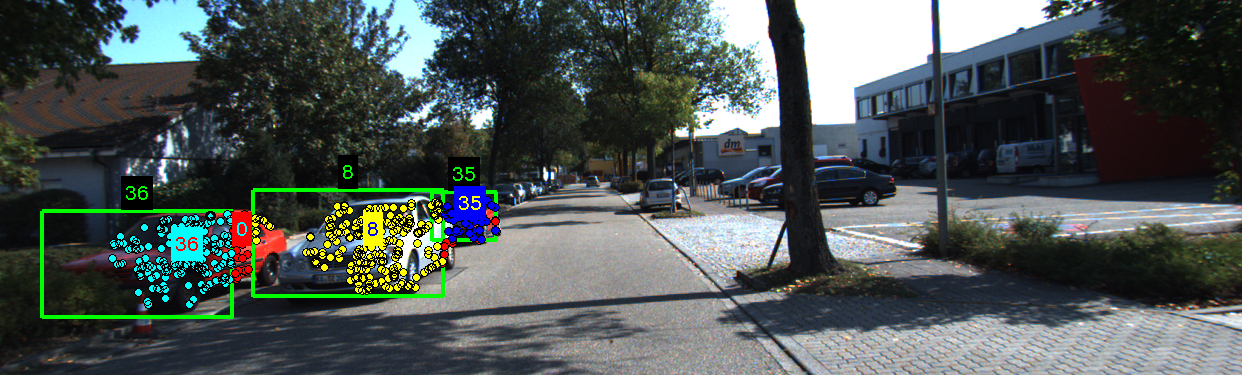
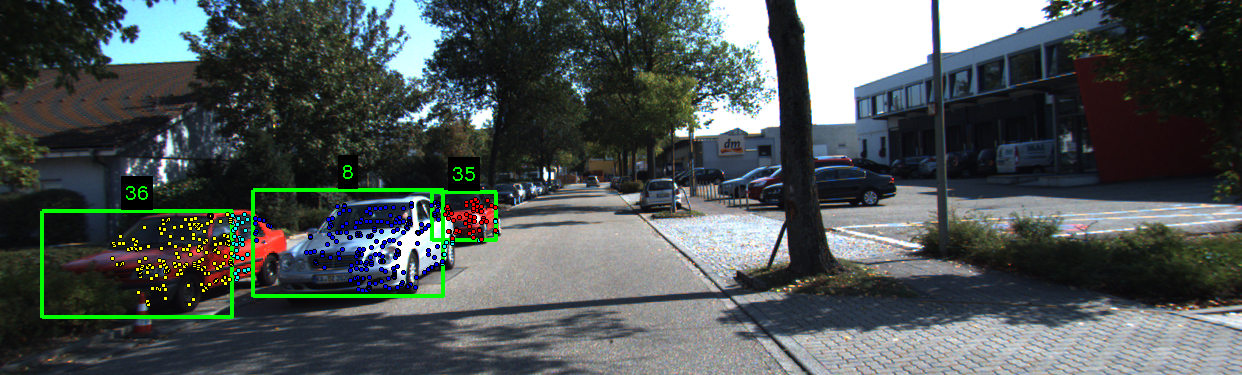
Added visualizations for the RAS algorithm.

Changed region(s): [[0.0612, 0.4987, 0.4283, 0.8213]]

diff --git a/CVPR16/Source/experiments.tex b/CVPR16/Source/experiments.tex
@@ -96,9 +96,14 @@ TP that has smaller mean depth then the competing bounding box.
 %  \caption{Association Experiment results. The error is in terms of average fraction of foreground points incorrectly associated to objects per sequence. }
 %\end{table}
 \begin{figure*}
+  \includegraphics[width=\textwidth]{results/plotErrorBarEvalAssocCoeffAllSequence_static_and_dynamic.pdf}\\
+  \includegraphics[width=\textwidth]{results/plotErrorBarEvalAssocCoeffAllSequence_occ_50.pdf}\\
+  \includegraphics[width=\textwidth]{results/plotErrorBarEvalAssocCoeffAllSequence_50.pdf}\\
   \includegraphics[width=\textwidth]{results/plotErrorBarEvalAssocCoeffAllSequence_occ_50.pdf}
-  \caption{Association Experiment results. The error is in terms of average fraction of foreground points incorrectly associated to objects per sequence. }
-  \label{fig:assoc-occ-results}
+  \caption{From top: (1)Association Experiment results on all points. %} \label{fig:assoc-results}
+    (2) Association Experiment results on occluded points. %} \label{fig:assoc-occ-results}
+    (3) Association Experiment results on dynamic points. %} \label{fig:assoc-dynamic-results}
+    (4) Association Experiment results on dynamic  and occluded points. The error is in terms of average fraction of foreground points incorrectly associated to objects per sequence. } \label{fig:assoc-occ-results}
 \end{figure*}
 
 
@@ -137,20 +142,33 @@ Localization is the main goal of our project. We estimate the position, orientat
 % \end{table}
 
 \newpage
+\newlength{\tblimgwidth}
+\setlength{\tblimgwidth}{0.40\textwidth}
 \begin{table*}
+  \centering
   \begin{tabular}{ccc}
     & Assignments & Error in assignment\\
-    \rotatebox{90}{\hspace{2em} BBox} & \includegraphics[width=0.48\textwidth]{results/0009_0000000060_point_assign_bbox2D_model-small.png} &%
-    \includegraphics[width=0.48\textwidth]{results/0009_0000000060_point_assign_bbox2D_model_correct_incorrect-small.png}\\
-    \rotatebox{90}{\hspace{05pt} Brox and Malik} & \includegraphics[width=0.48\textwidth]{results/0009_0000000060_point_assign_BroxAndMalik2010-small.png} &%
-    \includegraphics[width=0.48\textwidth]{results/0009_0000000060_point_assign_BroxAndMalik2010_correct_incorrect-small.png}\\
-    \rotatebox{90}{\hspace{2em} Ours} & \includegraphics[width=0.48\textwidth]{results/0009_0000000060_point_assign_contPtTracks-small.png} &%
-    \includegraphics[width=0.48\textwidth]{results/0009_0000000060_point_assign_contPtTracks_correct_incorrect-small.png}\\
-    \rotatebox{90}{\hspace{2em} BBox} & \includegraphics[width=0.48\textwidth]{results/0013_0000000060_point_assign_bbox2D_model-small.png} &%
-    \includegraphics[width=0.48\textwidth]{results/0013_0000000060_point_assign_bbox2D_model_correct_incorrect-small.png}\\
-    \rotatebox{90}{\hspace{05pt} Brox and Malik} & \includegraphics[width=0.48\textwidth]{results/0013_0000000060_point_assign_BroxAndMalik2010-small.png} &%
-    \includegraphics[width=0.48\textwidth]{results/0013_0000000060_point_assign_BroxAndMalik2010_correct_incorrect-small.png}\\
-    \rotatebox{90}{\hspace{2em} Ours} & \includegraphics[width=0.48\textwidth]{results/0013_0000000060_point_assign_contPtTracks-small.png} &%
-    \includegraphics[width=0.48\textwidth]{results/0013_0000000060_point_assign_contPtTracks_correct_incorrect-small.png}
+    \rotatebox{90}{\hspace{2em} BBox} & \includegraphics[width=\tblimgwidth]{results/0009_0000000060_point_assign_bbox2D_model-small.png} &%
+    \includegraphics[width=\tblimgwidth]{results/0009_0000000060_point_assign_bbox2D_model_correct_incorrect-small.png}\\
+    \rotatebox{90}{\hspace{2em} Brox} & \includegraphics[width=\tblimgwidth]{results/0009_0000000060_point_assign_BroxAndMalik2010-small.png} &%
+    \includegraphics[width=\tblimgwidth]{results/0009_0000000060_point_assign_BroxAndMalik2010_correct_incorrect-small.png}\\
+    \rotatebox{90}{\hspace{2em} RAS} & \includegraphics[width=\tblimgwidth]{results/0009_0000000060_point_assign_RAS-small.png} &%
+    \includegraphics[width=\tblimgwidth]{results/0009_0000000060_point_assign_RAS_correct_incorrect-small.png}\\
+    \rotatebox{90}{\hspace{2em} Ours} & \includegraphics[width=\tblimgwidth]{results/0009_0000000060_point_assign_contPtTracks-small.png} &%
+    \includegraphics[width=\tblimgwidth]{results/0009_0000000060_point_assign_contPtTracks_correct_incorrect-small.png}\\
+    \rotatebox{90}{\hspace{2em} BBox} & \includegraphics[width=\tblimgwidth]{results/0013_0000000060_point_assign_bbox2D_model-small.png} &%
+    \includegraphics[width=\tblimgwidth]{results/0013_0000000060_point_assign_bbox2D_model_correct_incorrect-small.png}\\
+    \rotatebox{90}{\hspace{2em} Brox} & \includegraphics[width=\tblimgwidth]{results/0013_0000000060_point_assign_BroxAndMalik2010-small.png} &%
+    \includegraphics[width=\tblimgwidth]{results/0013_0000000060_point_assign_BroxAndMalik2010_correct_incorrect-small.png}\\
+    \rotatebox{90}{\hspace{2em} RAS} & \includegraphics[width=\tblimgwidth]{results/0013_0000000060_point_assign_RAS-small.png} &%
+    \includegraphics[width=\tblimgwidth]{results/0013_0000000060_point_assign_RAS_correct_incorrect-small.png}\\
+    \rotatebox{90}{\hspace{2em} Ours} & \includegraphics[width=\tblimgwidth]{results/0013_0000000060_point_assign_contPtTracks-small.png} &%
+    \includegraphics[width=\tblimgwidth]{results/0013_0000000060_point_assign_contPtTracks_correct_incorrect-small.png}
   \end{tabular}
+  \caption{Qualitative results for association experiment. The left column
+  shows the point tracks assignment to appropriate track. Each color represents
+a different track to which the point is associated to. Right column shows the
+probablistic error in association: red is low error and blue is high error.
+Note that our method changes smoothly at the boundary of the objects with
+intermediate probabilities, while the baseline methods have only 0-1 error.} 
 \end{table*}

diff --git a/CVPR16/Source/occlusion.tex b/CVPR16/Source/occlusion.tex
@@ -22,7 +22,7 @@ where $\cL(\cdot)$ is the logistic function given by
 \begin{align}
   L(\bx; \bp, \bSigma) = \frac{1}{1 + e^{-k(1 - d(\mathbf{x},\bp))}},
 \end{align}
-with $d(\bx, \bp) = (\bx-\bp)^\top\bSigma(\bx-\bp)$ being the Mahalanobis distance. We set $k = 10\ln{49}$ as the value that allows the logistic function $\cL$ to drop to $0.98$ at a distance $d = 0.9$ from the object center. The spread of the ellipsoid, determined by $\bSigma_i$, depends of the dimensions of the traffic participant. Please refer to the Chapter~\ref{sec:appendix} for computation of $\bSigma$ from object dimensions.
+with $d(\bx, \bp) = (\bx-\bp)^\top\bSigma(\bx-\bp)$ being the Mahalanobis distance. We set $k = 10\ln{49}$ as the value that allows the logistic function $\cL$ to drop to $0.98$ at a distance $d = 0.9$ from the object center. The spread of the ellipsoid, determined by $\bSigma_i$, depends of the dimensions of the traffic participant. Please refer to the supplementary material for computation of $\bSigma_i$ from object dimensions.
 
 
 \paragraph{Image formation}
@@ -62,15 +62,15 @@ P^j_{\textit{transmission}}(\lambda) = \prod_{f}^{\lambda} (1 - \occft{\lambda \
 where $\displaystyle\prod_{f}^{\lambda}$ represents the \emph{product integral} from $f$ to $\lambda$ and $f$ is the position of camera screen which has been taken equivalent to focal length of the camera .\footnote{A product integral is a simple integral in log domain: 
 \vspace{-0.2cm}
 \begin{equation}
-\prod_{0}^{\lambda} (1 - f_{occ}(\lambda \ray))^{d\lambda} = e^{\int_{1}^{\lambda} \ln{(1 - f_{occ}(\lambda \ray))}{d\lambda}}. \nonumber
+\prod_{f}^{\lambda} (1 - f_{occ}(\lambda \ray))^{d\lambda} = e^{\int_{f}^{\lambda} \ln{(1 - f_{occ}(\lambda \ray))}{d\lambda}}. \nonumber
 \end{equation}
 }
 
 In practice, the integral for transmission probability \eqref{eq:ptrans-integral} is difficult to compute even numerically. So we choose a parameterization in the form of a product of sigmoid functions, which is a reasonable approximation to the behaviour of the transmission probability:
 %
-%\newcommand{\Ptrans}{P_{\textit{transmission}}}%
+\newcommand{\Ptransmission}{P_{\textit{transmission}}}%
 \begin{align}
-  \Ptrans^j(\lambda) = \prod_i (1 - \cL_u (\bu; \bmu_i, \bGamma_i^{-1}) \cL_{\lambda}(\lambda; \nu_i)),
+  \Ptransmission^j(\lambda) = \prod_i (1 - \cL_u (\bu; \bmu_i, \bGamma_i^{-1}) \cL_{\lambda}(\lambda; \nu_i)),
 \label{eq:evalCumulativePtrans}
 \end{align}
 %
@@ -81,7 +81,13 @@ where $\cL_u(.)$ is sigmoid in image domain, with $\bmu^i_u$ and $\bGamma_i$ rep
 \cL_{\lambda}(\lambda; \nu_i) &= \frac{1}{1 + e^{-k_d(\lambda - \nu_i)}}
 \end{align}
 %
-We compare the exact and relative formulation of transmission probability in Fig~\ref{fig:compare:exact:approx:ptrans}.
+We compare the exact and relative formulation of transmission probability in
+Fig~\ref{fig:compare:exact:approx:ptrans}. Note that the choice of mean depth
+of object causes deviation from the exact transmission probability. However,
+the computation of ray intersection with ellipsoid is expensive to compute for 
+every ray and the shift of transmission probability anywhere through the object 
+is a reasonable approximation as the occluded points can only lie outside the
+object.
 
 \begin{figure}
   \includegraphics[width=\columnwidth]{results/plotPtransmission_exact_vs_approx.pdf}

diff --git a/CVPR16/Source/related.tex b/CVPR16/Source/related.tex
@@ -1,0 +1,9 @@
+\section{Related Work}
+\paragraph{Occlusion handling in tracking}
+Occlusions have also been handled in tracking-by-detection frameworks by considering occluder patterns in the image \cite{Kwak_etal_2012,Wu_Nevatia_2007}. A notable exception is the work of Milan et al.~\cite{Milan_etal_2014} that explicits models occlusion in the continuous domain to determine a visibility for each object in multi-target tracking. However, the occlusion model in \cite{Milan_etal_2014} is essentially the overlap of image projections of a Gaussian representation of the object. Our occlusion modeling is much more general in determining the probability of a point in space as belonging to an object. While it can also be used to determine a visibility ratio similar to \cite{Milan_etal_2014}, it can have far more general applications and can be quantitatively evaluated, as shown by our experiments on point track associations.
+
+\paragraph{3D localization and scene understanding}
+One of the central goals of 3D scene understanding is to localize the 3D positions and orientations of objects in complex scenes. For instance, using stereo imagery, several visual cues are combined in \cite{Geiger_etal_2014} to simultaneously determine object locations and a rough intersection topology. Similar to us, other works have also considered monocular frameworks. Notably, occlusions are explicitly handled in \cite{Wojek_etal_2013} by considering partial object detectors. A detailed part-based representation of objects based on annotated CAD models is used for monocular scene understanding in \cite{Zia_etal_2013,Zia_etal_2014}, which also allows reasoning about mutual occlusions between objects. In contrast to these works, our monocular framework uses a physical modeling of occlusion in continuous space, which makes it more general, extensible and amenable for continuous optimization.
+
+\paragraph{Motion segmentation and multibody SFM}
+An application for our occlusion modeling is to determine point track associations in scenes with multiple objects. For moving objects, this is within the purview of motion segmentation, which has been actively studied \cite{Tron_Vidal_2007,Rao_etal_2010}. This also motivates further applications such as object segmentation based on point trajectories \cite{Brox_Malik_2010}. Motion segmentation is also used within multibody structure from motion (SFM) frameworks \cite{Ozden_etal_2010,Kundu_etal_2011,Namdev2012}. In contrast to these works, our formulation does not distinguish between moving and static objects and also explicitly reasons about occlusions due to 3D object geometries for associating point tracks to individual objects.

diff --git a/CVPR16/continuousocclusion.tex b/CVPR16/continuousocclusion.tex
@@ -63,35 +63,37 @@
 %\setcounter{page}{4321}
 
 \begin{document}
-\title{Continuous Occlusion Models for Road Scene Understanding}
+\title{Continuous Occlusion Models for segmentation in Road Scene Understanding}
 
-%% \author{Vikas Dhiman\\
-%%   University of Michigan\\
-%%   Ann Arbor, MI, USA\\
-%% {\tt\small dhiman@umich.edu}
-%% \and
-%% Manmohan Chandraker\\
-%% NEC Laboratories America, Inc.\\
-%% Cupertino, CA, USA\\
-%% {\tt\small manu@nec-labs.com}
-%% \and
-%% Jason J Corso\\
-%%   University of Michigan\\
-%%   Ann Arbor, MI, USA\\
-%% {\tt\small jjcorso@eecs.umich.edu}
-%% }
+\author{Vikas Dhiman\\
+  University of Michigan\\
+  Ann Arbor, MI, USA\\
+{\tt\small dhiman@umich.edu}
+Quoc-Huy Tran\\
+NEC Laboratories America, Inc.\\
+Cupertino, CA, USA\\
+{\tt\small qhtran@nec-labs.com}
+\and
+Manmohan Chandraker\\
+NEC Laboratories America, Inc.\\
+Cupertino, CA, USA\\
+{\tt\small manu@nec-labs.com}
+\and
+Jason J Corso\\
+  University of Michigan\\
+  Ann Arbor, MI, USA\\
+{\tt\small jjcorso@eecs.umich.edu}
+}
 
 \maketitle
-%\thispagestyle{empty}
 
 
 
-%\input{Source/abstract}
-%\input{Source/intro}
-%\input{Source/related}
-%\input{Source/setup}
+\input{Source/abstract}
+\input{Source/intro}
+\input{Source/related}
+\input{Source/setup}
 \input{Source/occlusion}
-%\input{Source/localize}
 \input{Source/experiments}
 %\input{Source/discussions}
 

diff --git a/CVPR16/Source/intro.tex b/CVPR16/Source/intro.tex
@@ -1,4 +1,4 @@
-\section{Problem Setup}
+\section{Introduction}
 The problem of segmenting points to objects often comes up in different
 computer vision problems especially in multi-body 
 reconstruction and localization. Given correspondence points on
@@ -8,6 +8,3 @@ to reconstruct or localize the object more accurately. Without additional
 information this is very difficult problem as attempted by semantic segmentation 
 and motion segmentation methods. However, in the problems like reconstruction and
 localization on can use the hypothesis of the algorithm as the feedback. For
-example, in this work we use the 3D localization hypothesis to fit ellipsoid
-models of cars that can aid in better association of points to right bodies and
-further leading to more accurate localization.

diff --git a/CVPR16/Source/abstract.tex b/CVPR16/Source/abstract.tex
@@ -1,0 +1,6 @@
+\begin{abstract}
+  We present a method to augment motion segmentation by representation of
+  objects like cars with soft ellipsoids that not only present a probablistic
+  alternative to bounding boxes but also inherently model occlusion. We compare
+  our approach against state of the art motion segmentation methods.
+\end{abstract}
